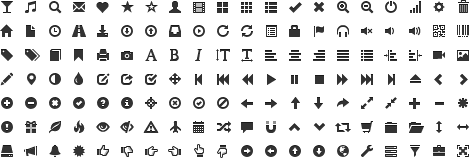
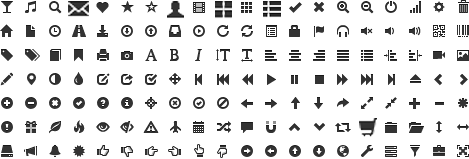
modificados los iconos y agregada info-bar superior

diff --git a/css/bootstrap.css b/css/bootstrap.css
@@ -900,7 +900,7 @@ pre code {
 }
 
 form {
-  margin: 0 0 20px;
+  
 }
 
 fieldset {
@@ -2143,14 +2143,15 @@ table [class*=span],
 [class^="icon-"],
 [class*=" icon-"] {
   display: inline-block;
-  width: 14px;
-  height: 14px;
+  width: 22px;
+  height: 22px;
   margin-top: 1px;
-  *margin-right: .3em;
+  *margin-right: .1em;
+  margin-top: 10px;
   line-height: 14px;
   vertical-align: text-top;
   background-image: url("../img/glyphicons-halflings.png");
-  background-position: 14px 14px;
+  background-position: 24px 24px;
   background-repeat: no-repeat;
 }
 
@@ -2185,7 +2186,7 @@ table [class*=span],
 }
 
 .icon-envelope {
-  background-position: -72px 0;
+  background-position: -69px 0;
 }
 
 .icon-heart {

diff --git a/css/styles.css b/css/styles.css
@@ -3,7 +3,22 @@ body{
 	overflow:hidden;
 }
 
-
+#msg-bar{
+	width:100%;
+	height:40px;
+	background:#207ce5;
+	position:absolute;
+	top:0px;
+	left:0px;
+	z-index:1000;
+	box-shadow:0px 0px 20px 0px black;
+	display:none;
+	font-size:40px;
+	text-align:center;
+	padding-top:20px;
+	color: white;
+	text-shadow: 0px 0px 20px black;
+}
 
 
 #contenedor-topbar{
@@ -78,6 +93,7 @@ li#fle{
 	z-index:1;
 	min-width: 100px;
 	box-shadow: 5px 0px 10px 1px;
+	z-index:1001;
 }
 
 
@@ -93,6 +109,7 @@ li#fle{
     text-align: center;
     height: 35px;
     cursor:pointer;
+    width:16px;
 	margin-top: -12px;
 	line-height: 25px;
 	padding-left: 43px;

diff --git a/productosagregar.php b/productosagregar.php
@@ -1,3 +1,7 @@
+<?php 
+@session_start();
+?>
+
 <html>
 <head>
 <meta http-equiv="Content-Type" content="text/html; charset=UTF-8">
@@ -14,7 +18,16 @@
      $(document).on("ready",function(){
 
       $("#productos,#agregar").toggleClass("seleccionado");
-      
+      <?php 
+
+				if(isset($_SESSION['mensaje'])){
+					?>
+						$("#msg-bar").html('<?php echo($_SESSION['mensaje']);?>').slideDown().delay(5000).slideUp()
+					<?php 
+					unset($_SESSION['mensaje']);
+				}
+	
+			?>
      })
 
 
@@ -57,7 +70,7 @@
         <div class="control-group info">
           <label class="control-label" for="inputError">Descripcion:</label>
           <div class="controls">
-            <textarea name="descripcion" id="inputError" placeholder="Describa el Producto...">
+            <textarea style="width:400px" name="descripcion" id="inputError" placeholder="Describa el Producto...">
             </textarea>
             <span class="help-inline"></span>
           </div>

diff --git a/leftbar.php b/leftbar.php
@@ -1,3 +1,7 @@
+<?php 
+@session_start();
+?>
+
 <html>
 <head>
 	<meta http-equiv="Content-Type" content="text/html;charset=UTF-8">
@@ -11,14 +15,13 @@
 		    $(".leftbar-item,.topbar-item").on("click",function(){
 		   		document.location = $(this).attr("ira");
 		    });
-
 		    
 	     });
 	</script>
 </head>
 <body>
 
-
+	<div id="msg-bar"></div>
 	<div id="leftbar">      
     <ul class="contenedor-leftbar">
 			<li ira="index.php" id="pagprincipal" class="leftbar-item"><a href=""><i class="icon-th-large"></i></a></li><br>

diff --git a/php/utils/agregarproducto.php b/php/utils/agregarproducto.php
@@ -2,7 +2,7 @@
 
 //require_once 'utils/estalogueado.php';
 
-@session_start();
+session_start();
 
 	if ( isset($_POST["nombre"])) {
 	
